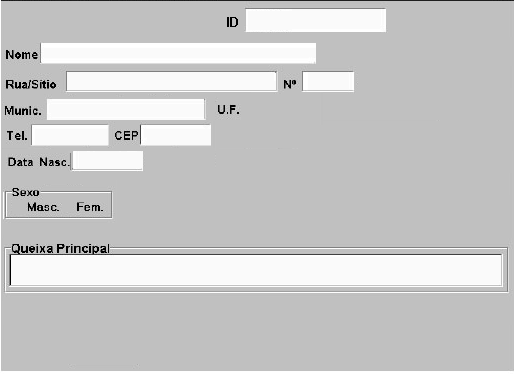
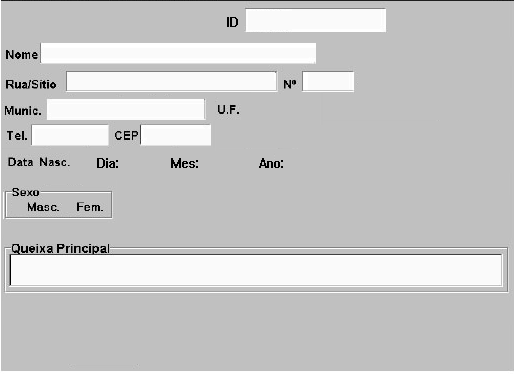
telaConsulta

Changed region(s): [[0.1245, 0.3824, 0.2802, 0.4706], [0.4981, 0.4118, 0.5603, 0.4706], [0.3113, 0.4118, 0.3735, 0.4706]]

diff --git a/FBD - SISTEMAHOSPITAL/src/view/TelaConsulta.java b/FBD - SISTEMAHOSPITAL/src/view/TelaConsulta.java
@@ -1,5 +1,171 @@
 package view;
 
-public class TelaConsulta {
+import java.text.ParseException;
+import java.text.SimpleDateFormat;
+import java.util.Date;
 
+import javax.swing.ButtonGroup;
+import javax.swing.JComboBox;
+import javax.swing.JComponent;
+import javax.swing.JFormattedTextField;
+import javax.swing.JFrame;
+import javax.swing.JLabel;
+import javax.swing.JRadioButton;
+import javax.swing.JTextArea;
+import javax.swing.JTextField;
+import javax.swing.UIManager;
+import javax.swing.UnsupportedLookAndFeelException;
+import javax.swing.text.MaskFormatter;
+
+public class TelaConsulta extends JFrame{
+	
+	private JLabel fundoLabel, idLabel;
+	private JTextField nome, rua, numero, municipio, CEP, telef;
+	private JRadioButton masculino, feminino;
+	private JTextArea queixa;
+	private ButtonGroup group;
+	private JComboBox<String> estados, ano, mes, dia;
+
+	public TelaConsulta() throws ClassNotFoundException, InstantiationException, IllegalAccessException, UnsupportedLookAndFeelException, ParseException {
+		super("Consulta");
+		setSize(530, 400);
+		setLocationRelativeTo(null);
+		setDefaultCloseOperation(JFrame.EXIT_ON_CLOSE);
+		setLayout(null);
+		UIManager.setLookAndFeel("javax.swing.plaf.nimbus.NimbusLookAndFeel");
+		fundoLabel = new JLabel();
+		setContentPane(fundoLabel);
+		
+		idLabel = new JLabel("");
+		idLabel.setBounds(250, 0, 150, 30);
+		
+		nome = new JTextField();
+		nome.setBounds(39, 34, 300, 25);
+		
+		rua = new JTextField();
+		rua.setBounds(65, 62, 215, 25);
+		
+		numero = new JTextField();
+		numero.setBounds(301, 62, 55, 25);
+		
+		municipio = new JTextField();
+		municipio.setBounds(45, 90, 165, 25);
+		
+		telef = new JFormattedTextField();
+		telef.setBounds(30, 115, 80, 25);
+		
+		CEP = new JTextField();
+		CEP.setBounds(138, 115, 75, 25);
+		
+		ano = new JComboBox<String>();
+		mes = new JComboBox<String>();
+		dia = new JComboBox<String>();
+		dia.setBounds(118, 142, 52, 25);
+		mes.setBounds(198, 142, 52, 25);
+		ano.setBounds(285, 142, 80, 25);
+		
+		estados = new JComboBox<String>();
+		estados.setBounds(240, 90, 52, 25);
+		
+		masculino = new JRadioButton();
+		masculino.setBounds(10, 190, 20, 20);
+		feminino = new JRadioButton();
+		feminino.setBounds(58, 190, 20, 20);
+		
+		group = new ButtonGroup();
+		group.add(masculino);
+		group.add(feminino);
+
+		queixa = new JTextArea();
+		queixa.setLineWrap(true);
+		queixa.setWrapStyleWord(true);
+		queixa.setBounds(8, 244, 495, 40);
+		
+		//////////////////////////////////////
+		add(idLabel);
+		add(nome);
+		add(rua);
+		add(numero);
+		add(municipio);
+		add(telef);
+		add(CEP);
+		add(dia);
+		add(mes);
+		add(ano);
+		add(estados);
+		add(masculino);
+		add(feminino);
+		add(queixa);
+		
+		
+		
+		
+		setVisible(true);
+		
+		
+	}
+
+	public JLabel getFundoLabel() {
+		return fundoLabel;
+	}
+
+	public JLabel getIdLabel() {
+		return idLabel;
+	}
+
+	public JTextField getNome() {
+		return nome;
+	}
+
+	public JTextField getRua() {
+		return rua;
+	}
+
+	public JTextField getNumero() {
+		return numero;
+	}
+
+	public JTextField getMunicipio() {
+		return municipio;
+	}
+
+	public JTextField getTelef() {
+		return telef;
+	}
+
+	public JTextField getCEP() {
+		return CEP;
+	}
+
+	public JTextArea getQueixa() {
+		return queixa;
+	}
+
+	public JRadioButton getMasculino() {
+		return masculino;
+	}
+
+	public JRadioButton getFeminino() {
+		return feminino;
+	}
+
+	public ButtonGroup getGroup() {
+		return group;
+	}
+
+	public JComboBox<String> getEstados() {
+		return estados;
+	}
+
+	public JComboBox<String> getAno() {
+		return ano;
+	}
+
+	public JComboBox<String> getMes() {
+		return mes;
+	}
+
+	public JComboBox<String> getDia() {
+		return dia;
+	}
 }

diff --git a/FBD - SISTEMAHOSPITAL/src/controll/Controller.java b/FBD - SISTEMAHOSPITAL/src/controll/Controller.java
@@ -2,11 +2,13 @@ package controll;
 
 import java.awt.event.ActionEvent;
 import java.awt.event.ActionListener;
+import java.text.ParseException;
 
 import javax.swing.UnsupportedLookAndFeelException;
 
 import model.Recursos;
 import view.DashBoard;
+import view.TelaConsulta;
 import view.TelaLogin;
 import view.TelaPacientes;
 
@@ -16,18 +18,25 @@ public class Controller implements ActionListener {
 	private Recursos rec;
 	private DashBoard board;
 	private TelaPacientes telaPac;
+	private TelaConsulta telaCon;
 	
-	public Controller() throws ClassNotFoundException, InstantiationException, IllegalAccessException, UnsupportedLookAndFeelException {
+	public Controller() throws ClassNotFoundException, InstantiationException, IllegalAccessException, UnsupportedLookAndFeelException, ParseException {
 		telaLogin = new TelaLogin();
 		board = new DashBoard();
 		telaPac = new TelaPacientes();
+		telaCon = new TelaConsulta();
 		rec = new Recursos();
 		montarTelaLogin();
 		montarTelaDashBoard();
 		montarTelaPaciente();
+		montarTelaConsulta();
 		control();
 		
 		
+	}
+	
+	private void montarTelaConsulta() {
+		telaCon.getFundoLabel().setIcon(rec.getTelaConsulta());
 	}
 	
 	private void montarTelaDashBoard() {

diff --git a/FBD - SISTEMAHOSPITAL/src/app/App.java b/FBD - SISTEMAHOSPITAL/src/app/App.java
@@ -1,5 +1,7 @@
 package app;
 
+import java.text.ParseException;
+
 import javax.swing.UnsupportedLookAndFeelException;
 
 import controll.Controller;
@@ -9,7 +11,7 @@ public class App {
 		try {
 			new Controller();
 		} catch (ClassNotFoundException | InstantiationException | IllegalAccessException
-				| UnsupportedLookAndFeelException e) {
+				| UnsupportedLookAndFeelException | ParseException e) {
 			
 			e.printStackTrace();
 		}
